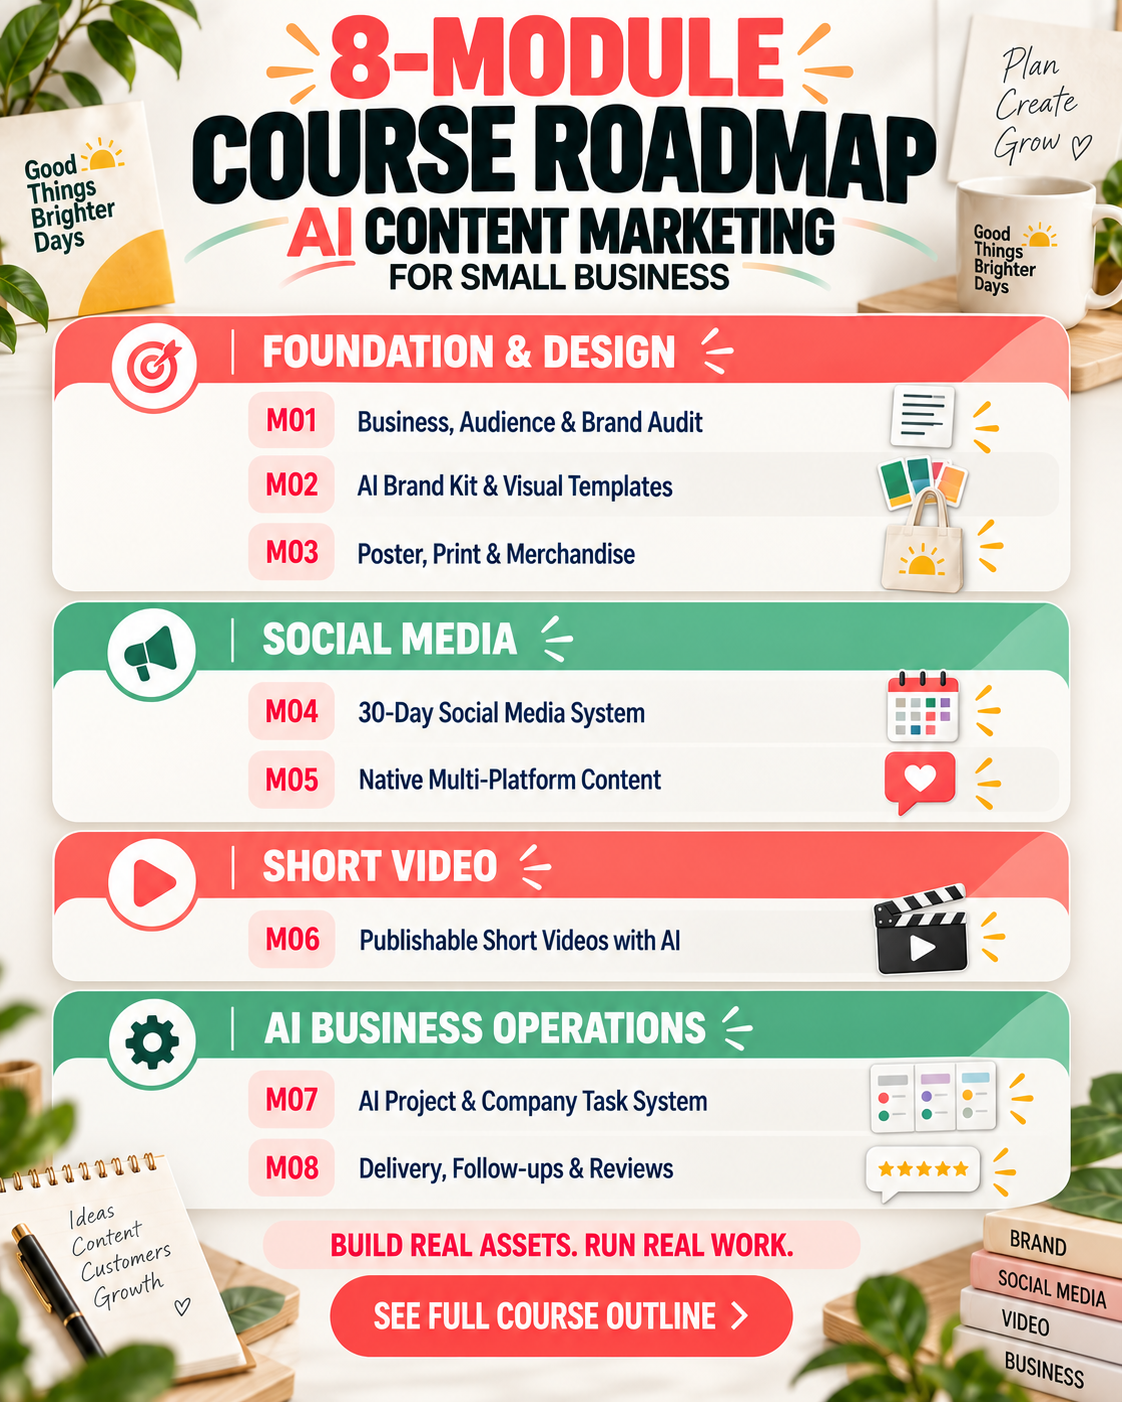
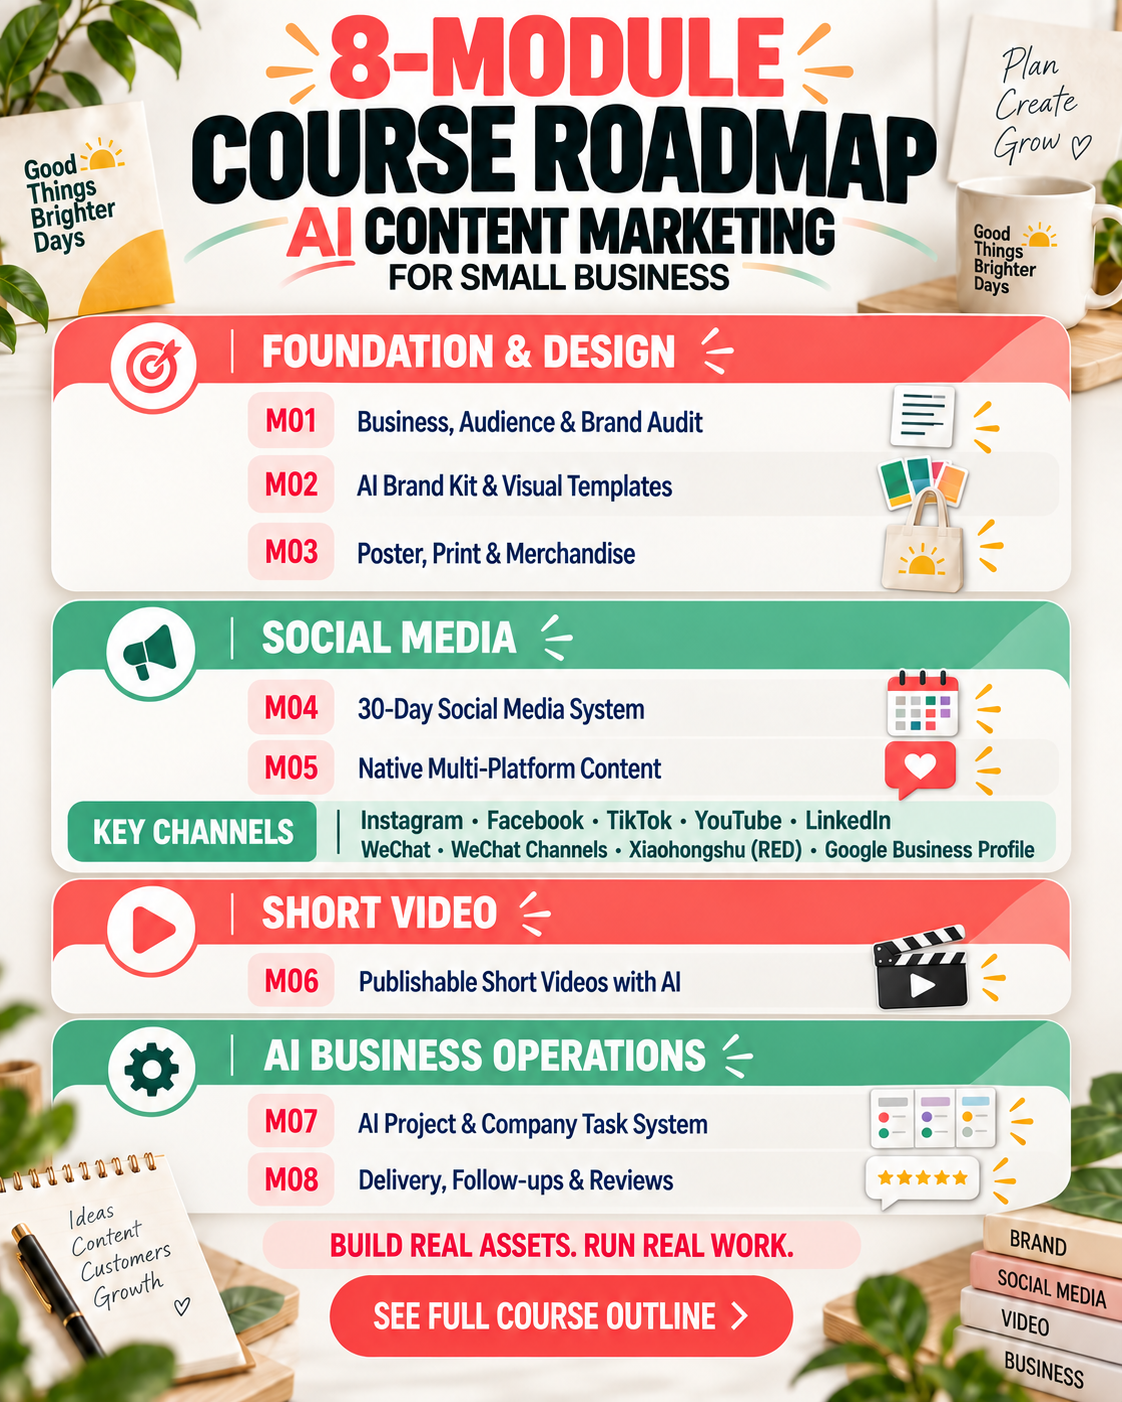
Add key media channels to course roadmap poster

diff --git a/CHANGELOG.md b/CHANGELOG.md
@@ -2,7 +2,7 @@
 
 ## 2026-09-13
 
-- 将《AI Content Marketing for Small Business》英文课程安排海报改为不绑定天数与时长的 8 模块 Roadmap，按 Foundation & Design、Social Media、Short Video、AI Business Operations 展示 M01–M08，并移除旧时间版公开资产（`ai-marketing-agile-business/public/marketing-assets`）。
+- 将《AI Content Marketing for Small Business》英文课程安排海报改为不绑定天数与时长的 8 模块 Roadmap，按 Foundation & Design、Social Media、Short Video、AI Business Operations 展示 M01–M08；补充 Instagram、Facebook、TikTok、YouTube、LinkedIn、WeChat、视频号、小红书和 Google Business Profile 等关键渠道，并移除旧时间版公开资产（`ai-marketing-agile-business/public/marketing-assets`）。
 - 新增《AI Content Marketing for Small Business》纯英文 4:5 宣传海报，保留品牌视觉、海报周边、Social Media、短视频和项目运营的成果导向画面，并输出公开 PNG（`ai-marketing-agile-business/public/marketing-assets`）。
 
 ## 2026-09-12
